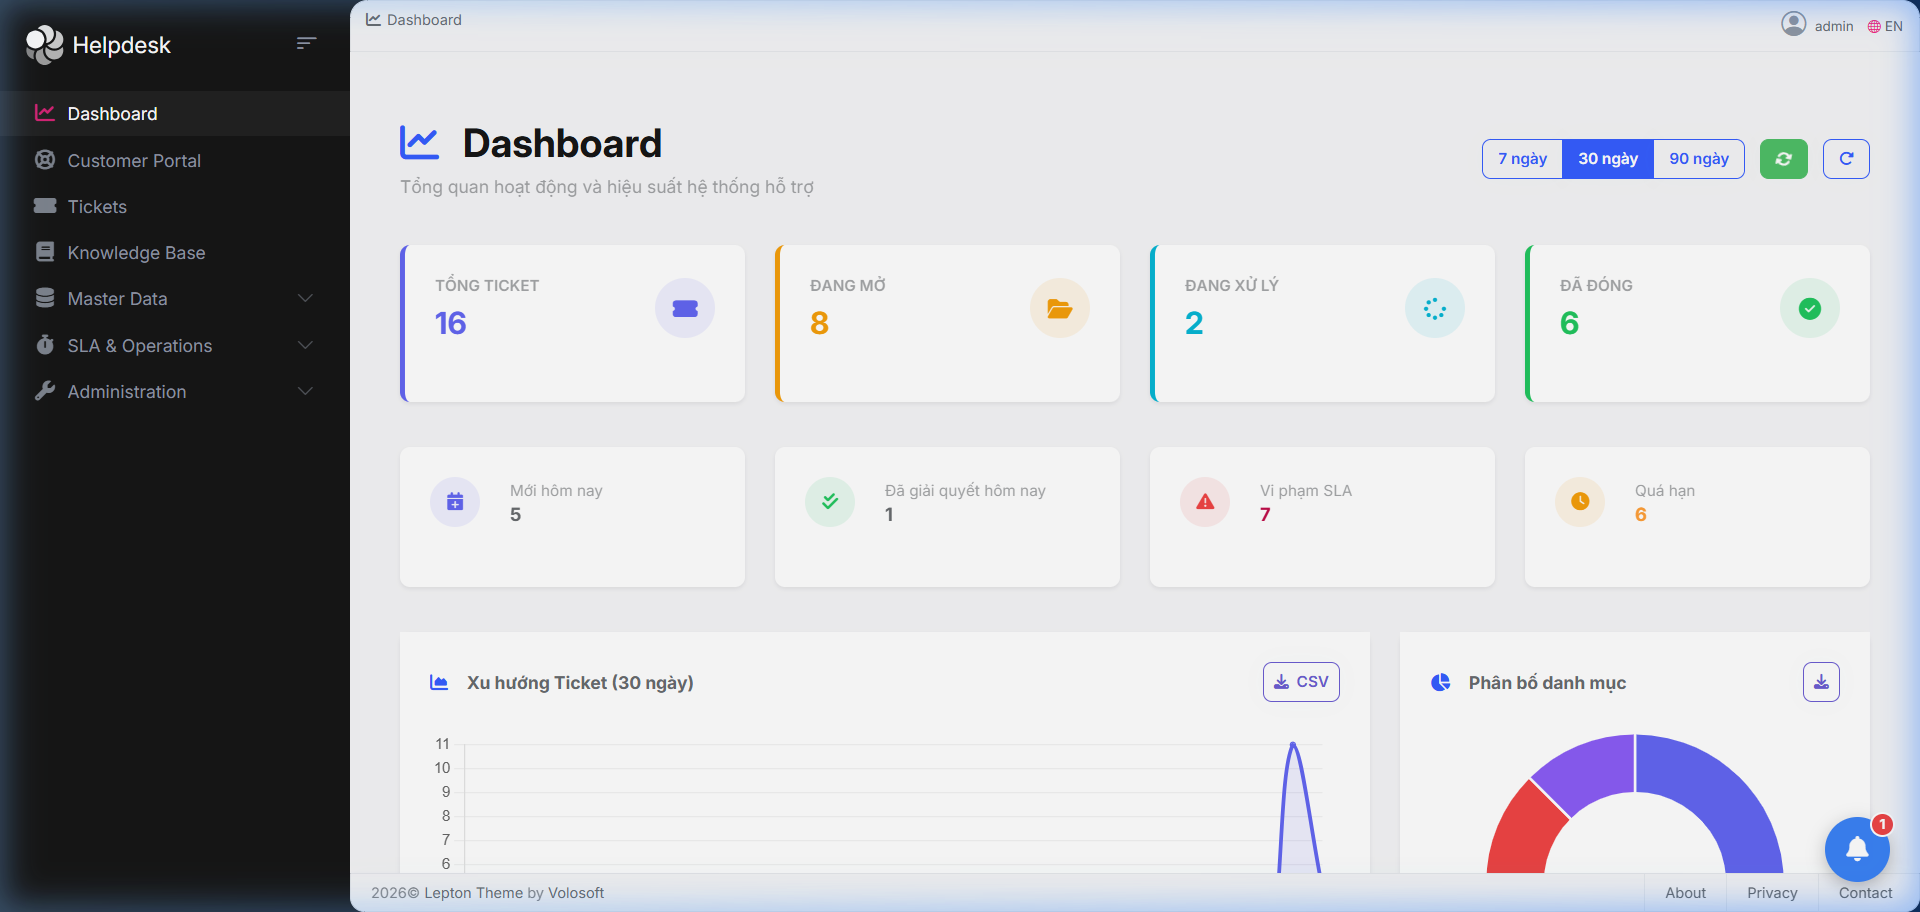
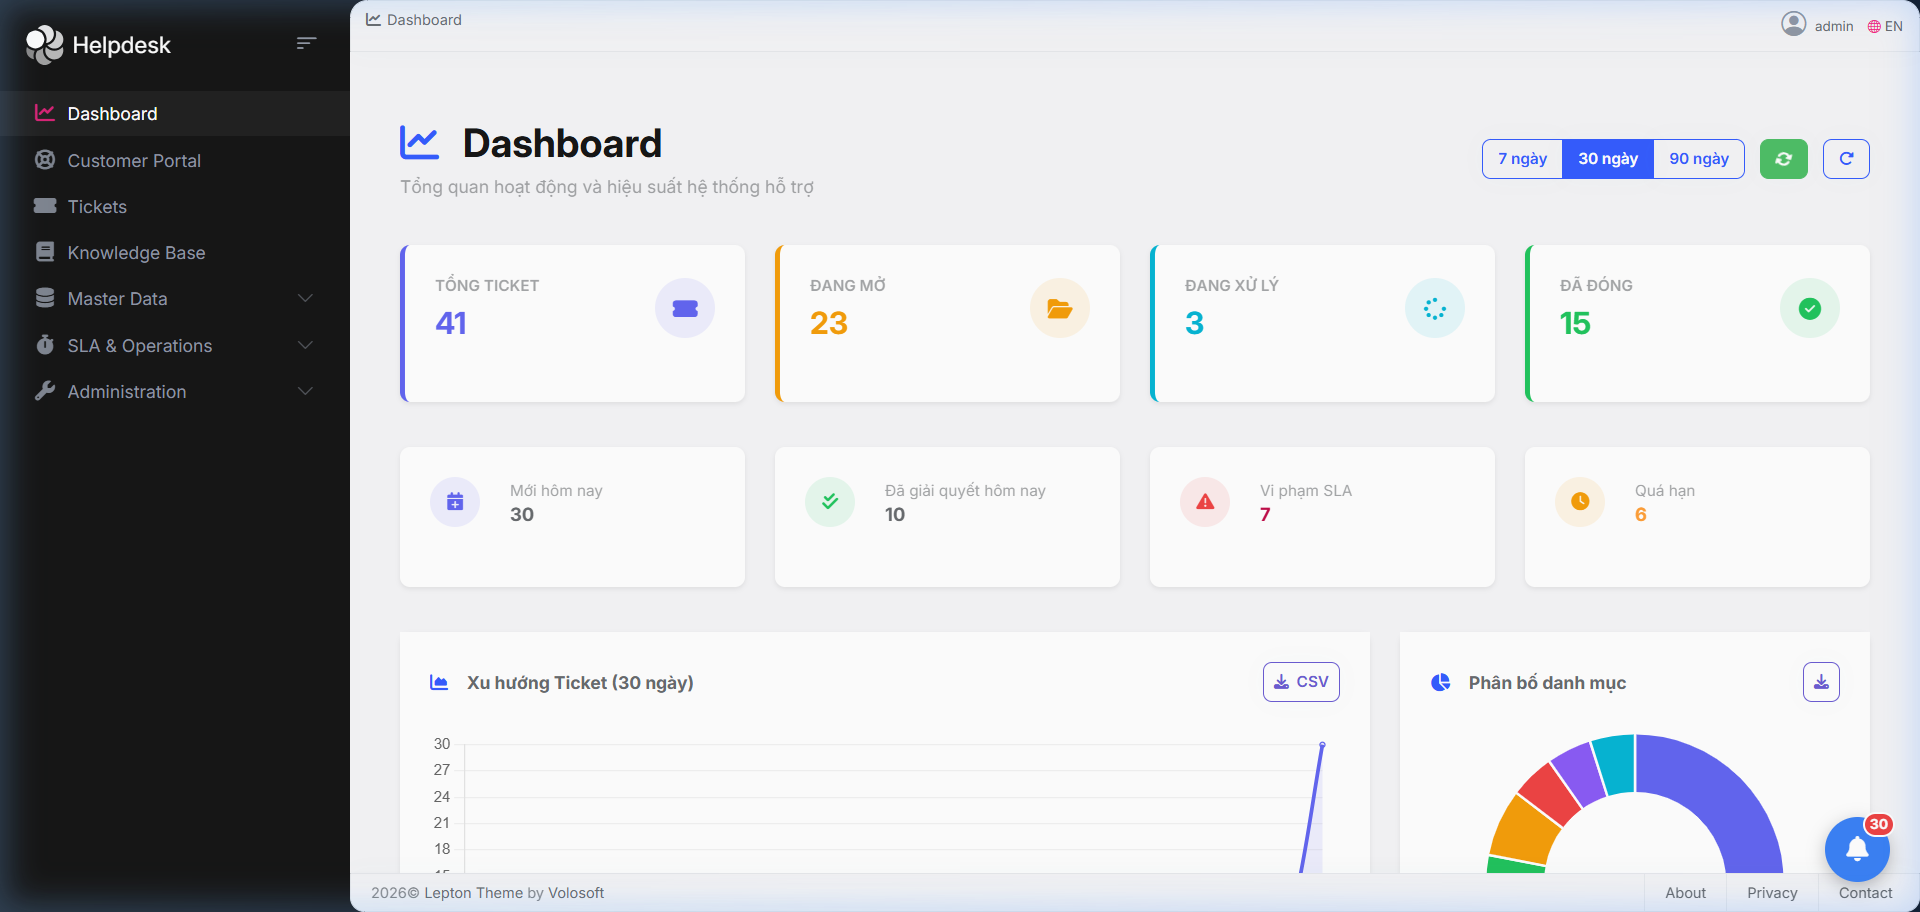
docs: update README with Discord modal create ticket, thread sync, and HTML email notifications

diff --git a/angular/src/app/dashboard/dashboard.component.html b/angular/src/app/dashboard/dashboard.component.html
@@ -301,20 +301,24 @@
                 Hài Lòng Khách Hàng (CSAT)
               </h6>
               <span class="badge bg-warning-subtle text-dark fw-bold px-2 py-1 rounded-pill">
-                ⭐ {{ stats.avgCsatRating || 5.0 }}/5.0
+                @if (stats.totalRatedTickets) {
+                  ⭐ {{ stats.avgCsatRating }}/5.0
+                } @else {
+                  Chưa có dữ liệu
+                }
               </span>
             </div>
             <div class="d-flex align-items-center mb-2">
               <div class="flex-grow-1 me-3">
                 <div class="progress" style="height: 12px; border-radius: 6px;">
                   <div class="progress-bar bg-warning" role="progressbar"
-                    [style.width.%]="stats.csatSatisfactionRate || 100"
+                    [style.width.%]="stats.totalRatedTickets ? stats.csatSatisfactionRate : 0"
                     style="border-radius: 6px; transition: width 0.8s ease;">
                   </div>
                 </div>
               </div>
               <span class="fw-bold fs-5 text-dark">
-                {{ stats.csatSatisfactionRate || 100 }}%
+                {{ stats.totalRatedTickets ? (stats.csatSatisfactionRate + '%') : '—' }}
               </span>
             </div>
             <p class="text-muted small mb-0">
@@ -395,9 +399,11 @@
                       </td>
                       <td class="text-center">
                         <span class="badge bg-warning-subtle text-dark fw-bold px-2 py-1 rounded-pill">
-                          ⭐ {{ agent.avgCsatRating || 5.0 }}
                           @if (agent.ratedTicketsCount) {
+                            ⭐ {{ agent.avgCsatRating }}
                             <small class="text-muted fw-normal">({{ agent.ratedTicketsCount }})</small>
+                          } @else {
+                            <small class="text-muted fw-normal">Chưa có đánh giá</small>
                           }
                         </span>
                       </td>

diff --git a/src/Helpdesk.Domain/Data/HelpdeskDataSeedContributor.cs b/src/Helpdesk.Domain/Data/HelpdeskDataSeedContributor.cs
@@ -33,6 +33,7 @@ public class HelpdeskDataSeedContributor : IDataSeedContributor, ITransientDepen
     private readonly Volo.Abp.Identity.IdentityRoleManager _roleManager;
     private readonly Volo.Abp.Identity.IdentityUserManager _userManager;
     private readonly Volo.Abp.PermissionManagement.IPermissionDataSeeder _permissionDataSeeder;
+    private readonly Volo.Abp.Authorization.Permissions.IPermissionDefinitionManager _permissionDefinitionManager;
 
     public HelpdeskDataSeedContributor(
         ICategoryRepository categoryRepository,
@@ -49,6 +50,7 @@ public class HelpdeskDataSeedContributor : IDataSeedContributor, ITransientDepen
         Volo.Abp.Identity.IdentityRoleManager roleManager,
         Volo.Abp.Identity.IdentityUserManager userManager,
         Volo.Abp.PermissionManagement.IPermissionDataSeeder permissionDataSeeder,
+        Volo.Abp.Authorization.Permissions.IPermissionDefinitionManager permissionDefinitionManager,
         IGuidGenerator guidGenerator)
     {
         _categoryRepository = categoryRepository;
@@ -65,6 +67,7 @@ public class HelpdeskDataSeedContributor : IDataSeedContributor, ITransientDepen
         _roleManager = roleManager;
         _userManager = userManager;
         _permissionDataSeeder = permissionDataSeeder;
+        _permissionDefinitionManager = permissionDefinitionManager;
         _guidGenerator = guidGenerator;
     }
 
@@ -320,8 +323,19 @@ public class HelpdeskDataSeedContributor : IDataSeedContributor, ITransientDepen
             "Helpdesk.TicketSources"
         };
 
-        // Ensure admin has all permissions
-        var allPermissions = managerPermissions.Union(agentPermissions).Union(customerPermissions).Distinct().ToList();
+        // Ensure admin has all permissions. Dùng danh sách quyền tĩnh phía trên làm nền, cộng thêm TOÀN BỘ
+        // quyền "Helpdesk.*" hiện có trong PermissionDefinitionProvider (kể cả các module thêm sau này như
+        // AssignmentRules, DiscordSettings...) - tránh phải nhớ ra sửa tay + chạy SQL grant mỗi lần thêm module mới.
+        var allHelpdeskPermissions = (await _permissionDefinitionManager.GetPermissionsAsync())
+            .Where(p => p.Name.StartsWith("Helpdesk.", StringComparison.Ordinal))
+            .Select(p => p.Name);
+
+        var allPermissions = managerPermissions
+            .Union(agentPermissions)
+            .Union(customerPermissions)
+            .Union(allHelpdeskPermissions)
+            .Distinct()
+            .ToList();
         await _permissionDataSeeder.SeedAsync("R", "admin", allPermissions);
 
         // Create Roles with pre-assigned permissions

diff --git a/src/Helpdesk.Application/Dashboard/DashboardAppService.cs b/src/Helpdesk.Application/Dashboard/DashboardAppService.cs
@@ -90,11 +90,12 @@ public class DashboardAppService : ApplicationService, IDashboardAppService
         double resolutionRate = totalSla > 0 ? Math.Round((double)(totalSla - resolutionBreached) / totalSla * 100, 1) : 100;
 
         // === CSAT Metrics ===
+        // null khi chưa có lượt khảo sát nào - tránh hiển thị "hài lòng tuyệt đối" giả khi thực ra chưa ai đánh giá.
         var ratedTickets = allTickets.Where(t => t.CsatRating.HasValue).ToList();
         int totalRated = ratedTickets.Count;
-        double avgCsat = totalRated > 0 ? Math.Round(ratedTickets.Average(t => t.CsatRating!.Value), 1) : 5.0;
+        double? avgCsat = totalRated > 0 ? Math.Round(ratedTickets.Average(t => t.CsatRating!.Value), 1) : null;
         int satisfiedCount = ratedTickets.Count(t => t.CsatRating!.Value >= 4);
-        double satisfactionRate = totalRated > 0 ? Math.Round((double)satisfiedCount / totalRated * 100, 1) : 100.0;
+        double? satisfactionRate = totalRated > 0 ? Math.Round((double)satisfiedCount / totalRated * 100, 1) : null;
 
         // === Ticket Trend ===
         var trendDays = input.TrendDays > 0 ? input.TrendDays : 30;
@@ -245,7 +246,7 @@ public class DashboardAppService : ApplicationService, IDashboardAppService
                 : 100;
 
             var agentRated = agentTickets.Where(t => t.CsatRating.HasValue).ToList();
-            double agentAvgCsat = agentRated.Count > 0 ? Math.Round(agentRated.Average(t => t.CsatRating!.Value), 1) : 5.0;
+            double? agentAvgCsat = agentRated.Count > 0 ? Math.Round(agentRated.Average(t => t.CsatRating!.Value), 1) : null;
 
             return new AgentPerformanceDto
             {

diff --git a/src/Helpdesk.Application.Contracts/Dashboard/Dtos/DashboardStatsDto.cs b/src/Helpdesk.Application.Contracts/Dashboard/Dtos/DashboardStatsDto.cs
@@ -18,10 +18,10 @@ public class DashboardStatsDto
     public double ResolutionComplianceRate { get; set; }
     public int SlaBreachedCount { get; set; }
 
-    // CSAT Metrics
-    public double AvgCsatRating { get; set; }
+    // CSAT Metrics - null nghĩa là chưa có lượt khảo sát nào, khác với "hài lòng tuyệt đối"
+    public double? AvgCsatRating { get; set; }
     public int TotalRatedTickets { get; set; }
-    public double CsatSatisfactionRate { get; set; }
+    public double? CsatSatisfactionRate { get; set; }
 
     // Overdue
     public int OverdueTicketCount { get; set; }
@@ -63,7 +63,7 @@ public class AgentPerformanceDto
     public int ResolvedCount { get; set; }
     public double AvgResolutionMinutes { get; set; }
     public double SlaComplianceRate { get; set; }
-    public double AvgCsatRating { get; set; }
+    public double? AvgCsatRating { get; set; }
     public int RatedTicketsCount { get; set; }
 }
 
